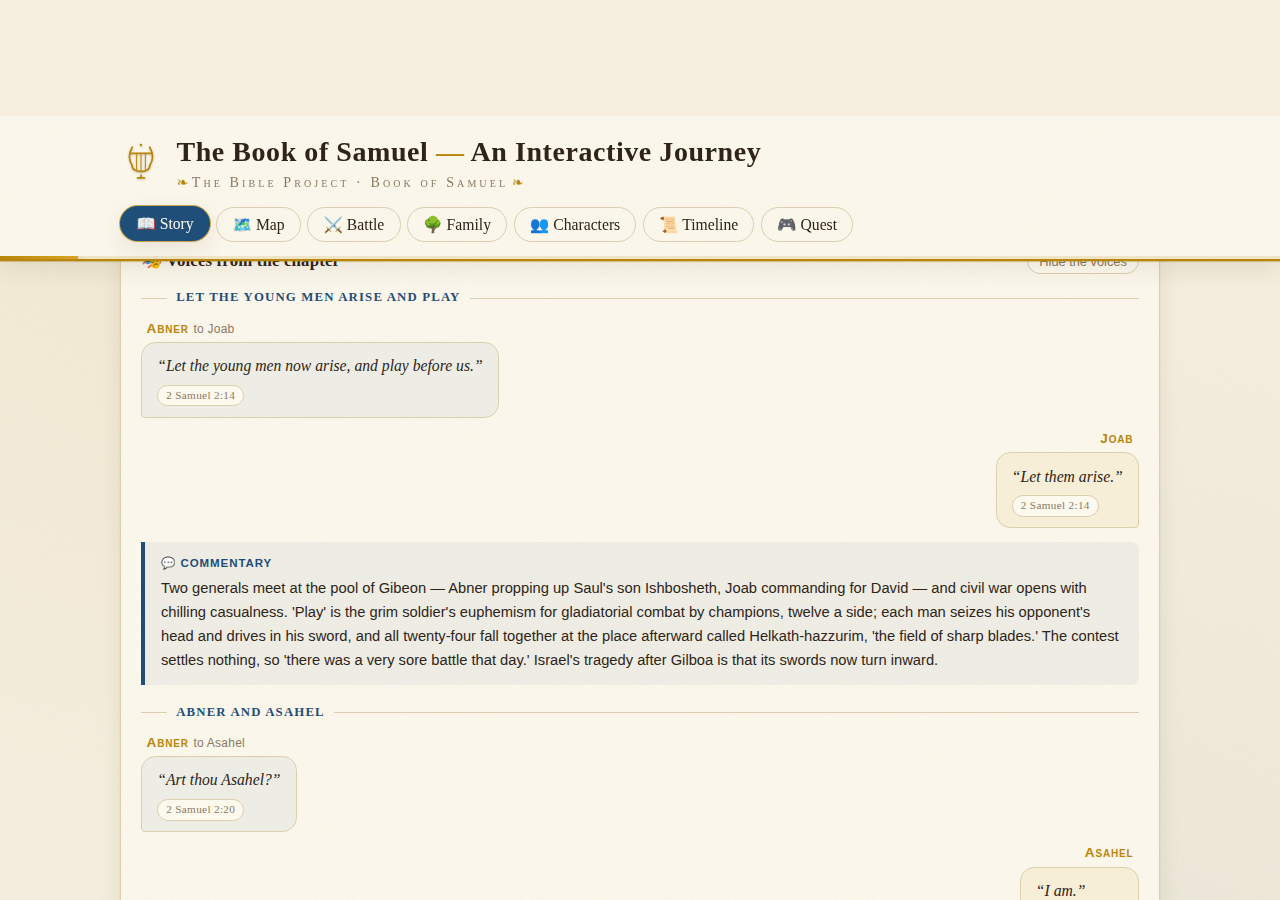
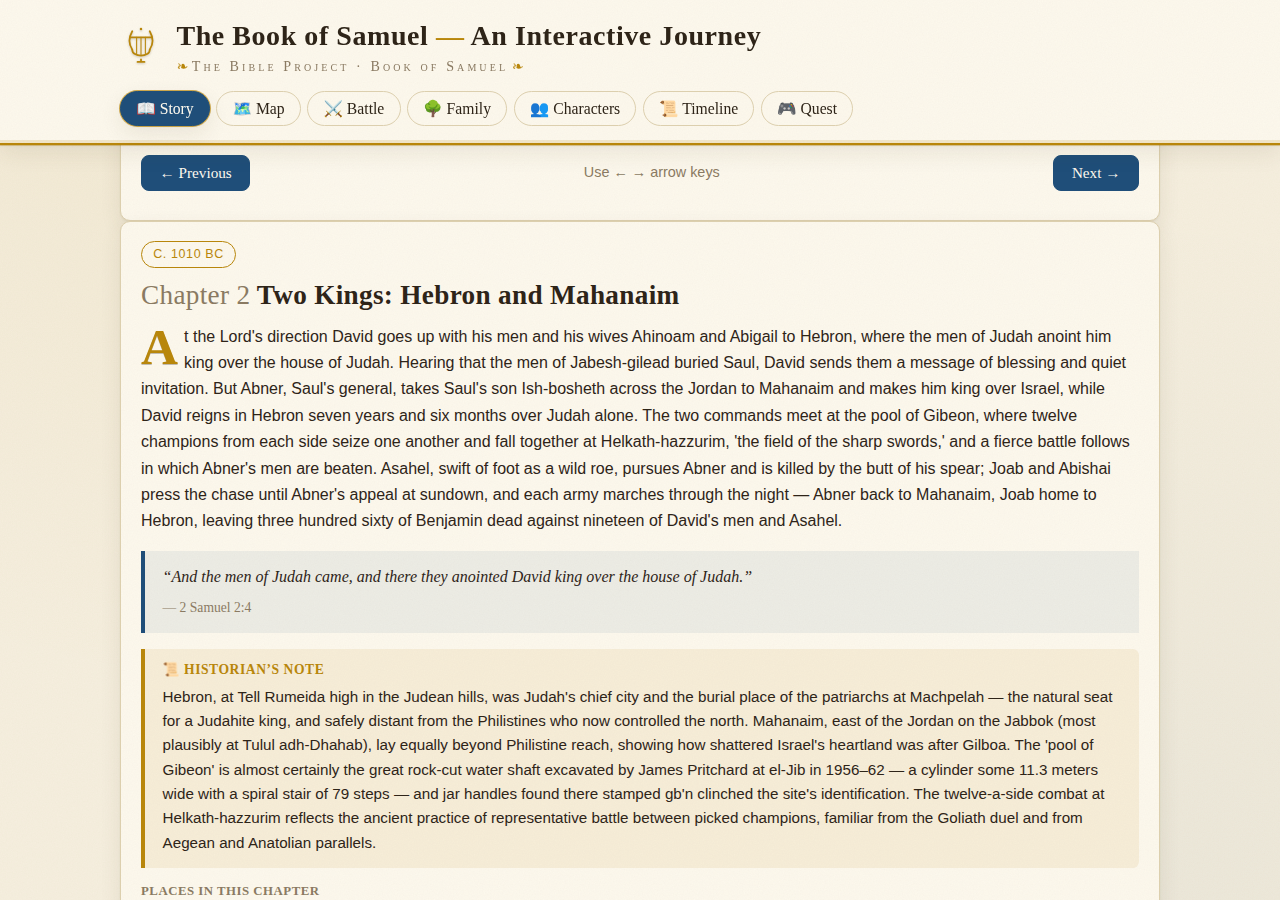
Restore real 2 Samuel chapter data; verify two-book study end to end
- Historian-authored SAMUEL2 chapters 1-2 recreated after the mock-file
  race, re-validated (51/51 assertions against committed data)
- In-browser verification: 2 Sam 2 renders real content with Gibeon
  dialogue in Voices, zero console errors across all tabs
- samuel2-ch2 screenshot retaken against real data; DEVLOG phase 8

Claude-Session: https://claude.ai/code/session_01HMwGaZ8WAaVPjBz9iR9HtN

diff --git a/data/samuel2-chapters.js b/data/samuel2-chapters.js
@@ -1,0 +1,30 @@
+// data/samuel2-chapters.js — window.SAMUEL2 (Historian)
+// Same schema as window.SAMUEL1. Key verse texts follow the King James Version
+// (public domain). Dates follow the same conservative chronology as the rest of
+// the project (David's accession over Judah c. 1010 BC); scholarly dating varies.
+
+window.SAMUEL2 = {
+  book: "2 Samuel",
+  chapters: [
+    {
+      num: 1,
+      title: "The Song of the Bow",
+      summary: "Two days after David returns to Ziklag from defeating the Amalekites, a young man arrives from Saul's camp with torn clothes and earth on his head, bearing Saul's crown and armlet. He claims that he found the wounded king leaning on his spear on Mount Gilboa and killed him at his own request — a story that flatly embellishes the account of Saul's suicide. David and his men mourn and fast until evening for Saul, for Jonathan, and for the fallen house of Israel. Then David has the messenger executed out of his own mouth, for daring to stretch forth his hand against the Lord's anointed. He laments Saul and Jonathan in the great elegy 'How are the mighty fallen' — the Song of the Bow, written in the book of Jasher — and commands that it be taught to the children of Judah.",
+      keyVerse: { ref: "2 Samuel 1:19", text: "The beauty of Israel is slain upon thy high places: how are the mighty fallen!" },
+      locations: ["ziklag", "mount-gilboa"],
+      characters: ["david", "amalekite-messenger", "saul", "jonathan"],
+      historianNote: "The Amalekite's tale contradicts 1 Samuel 31, where Saul falls on his own sword; he has evidently looted the body and invented a mercy-killing, expecting a reward from Saul's rival — a fatal misreading of David. The crown (nezer) and armlet he carries were genuine royal insignia across the ancient Near East; armlets appear as royal regalia in Egyptian and Assyrian art. The book of Jasher ('the Upright'), also cited at Joshua 10:13, was a lost national anthology of Hebrew war poetry, and David's lament belongs to a well-attested ancient genre of royal elegy — its refusal to mention any hope of reward, and its praise of the very king who hunted David, mark it as one of the oldest and most authentic pieces of poetry preserved in the Bible.",
+      era: "c. 1010 BC"
+    },
+    {
+      num: 2,
+      title: "Two Kings: Hebron and Mahanaim",
+      summary: "At the Lord's direction David goes up with his men and his wives Ahinoam and Abigail to Hebron, where the men of Judah anoint him king over the house of Judah. Hearing that the men of Jabesh-gilead buried Saul, David sends them a message of blessing and quiet invitation. But Abner, Saul's general, takes Saul's son Ish-bosheth across the Jordan to Mahanaim and makes him king over Israel, while David reigns in Hebron seven years and six months over Judah alone. The two commands meet at the pool of Gibeon, where twelve champions from each side seize one another and fall together at Helkath-hazzurim, 'the field of the sharp swords,' and a fierce battle follows in which Abner's men are beaten. Asahel, swift of foot as a wild roe, pursues Abner and is killed by the butt of his spear; Joab and Abishai press the chase until Abner's appeal at sundown, and each army marches through the night — Abner back to Mahanaim, Joab home to Hebron, leaving three hundred sixty of Benjamin dead against nineteen of David's men and Asahel.",
+      keyVerse: { ref: "2 Samuel 2:4", text: "And the men of Judah came, and there they anointed David king over the house of Judah." },
+      locations: ["hebron", "jabesh-gilead", "mahanaim", "gibeon"],
+      characters: ["david", "abigail", "abner", "ish-bosheth", "joab", "abishai", "asahel"],
+      historianNote: "Hebron, at Tell Rumeida high in the Judean hills, was Judah's chief city and the burial place of the patriarchs at Machpelah — the natural seat for a Judahite king, and safely distant from the Philistines who now controlled the north. Mahanaim, east of the Jordan on the Jabbok (most plausibly at Tulul adh-Dhahab), lay equally beyond Philistine reach, showing how shattered Israel's heartland was after Gilboa. The 'pool of Gibeon' is almost certainly the great rock-cut water shaft excavated by James Pritchard at el-Jib in 1956–62 — a cylinder some 11.3 meters wide with a spiral stair of 79 steps — and jar handles found there stamped gb'n clinched the site's identification. The twelve-a-side combat at Helkath-hazzurim reflects the ancient practice of representative battle between picked champions, familiar from the Goliath duel and from Aegean and Anatolian parallels.",
+      era: "c. 1010 BC"
+    }
+  ]
+};

diff --git a/DEVLOG.md b/DEVLOG.md
@@ -101,5 +101,20 @@ commentary.
 - Zero-error matrix re-passed (light/dark × desktop/mobile); single-file
   bundle rebuilt with all 19 scripts and verified over file://.
 
+### Phase 8 — The app becomes a two-book study (2 Samuel begins)
+- 📖 The story view now has a book switcher: 1 Samuel (31 chapters) and
+  2 Samuel (chapters 1–2 so far, growing as the study continues). Per-book
+  read tracking; the gold progress bar counts both books; Voices keys to
+  the active book so the Gibeon dialogue plays under 2 Samuel 2.
+- Historian content for 2 Sam 1 ("The Song of the Bow") and 2 Sam 2
+  ("Two Kings: Hebron and Mahanaim"), with Hebron, Mahanaim, and Gibeon
+  added to the map and a new "Two Kings, One Land" journey route.
+- Incident log: a temporary frontend mock briefly overwrote the historian's
+  real chapter file in a same-path race; caught in review, the real file was
+  regenerated and re-validated (51/51 assertions). Lesson recorded: one
+  owner per file path, mocks live outside the repo.
+- Verified in-browser: real content on 2 Sam 2, zero console errors, all
+  7 tabs clean; single-file bundle rebuilt with all 20 scripts.
+
 ### Next up
-- 2 Samuel content: chapter structure ready to extend; user is studying 2 Sam 2.
+- 2 Samuel chapters 3+ as the study continues.
